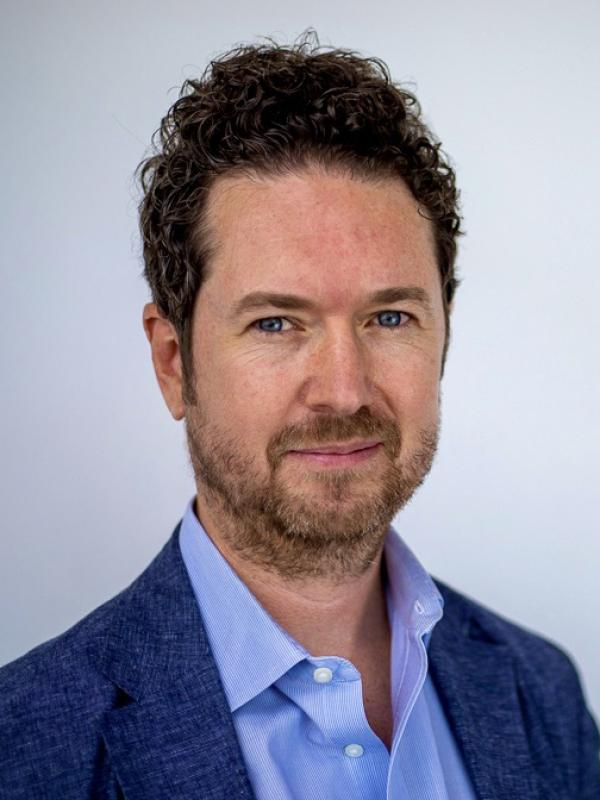
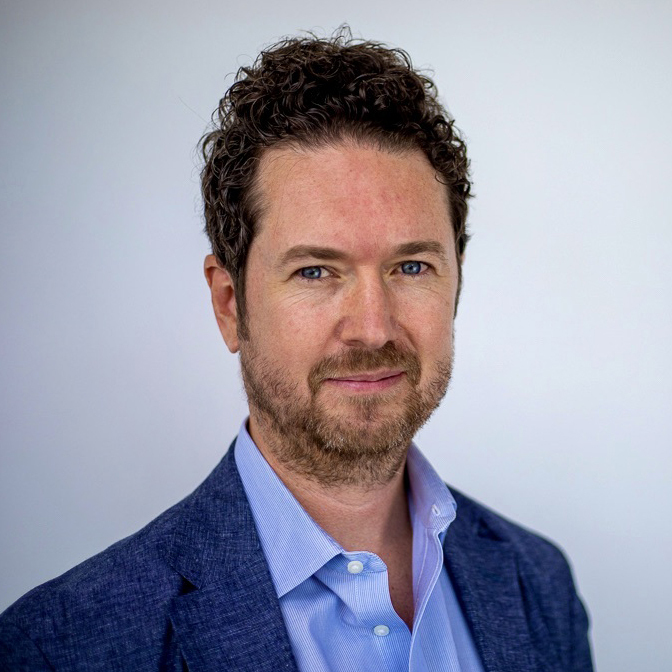
Add Dr. Sara Lazar (HMS / Mass General); refresh Michael Sheehy
- New speaker Dr. Sara Lazar, placed third (after Akhilesh Mishra and
  Sat Bir Khalsa): neuroscience-of-meditation pioneer, MGH / Harvard
  Medical School.
- Michael Sheehy: new profile photo, and links repointed to the
  Contemplative Sciences Center (csc.virginia.edu).

diff --git a/app/page.tsx b/app/page.tsx
@@ -220,6 +220,15 @@ const speakers = [
     bio: 'A leading researcher on the science of yoga and meditation for over four decades. He is Editor-in-Chief of the International Journal of Yoga Therapy, lead editor of The Principles and Practice of Yoga in Health Care, and Director of Research at the Kripalu Center and the Kundalini Research Institute, with clinical trials on yoga for anxiety, insomnia and occupational stress.',
   },
   {
+    name: 'Dr. Sara Lazar',
+    title: 'Associate Researcher, Psychiatry, Massachusetts General Hospital · Assistant Professor in Psychology, Department of Psychiatry',
+    affiliation: 'Harvard Medical School · Massachusetts General Hospital',
+    affiliationUrl: 'https://hms.harvard.edu',
+    profileUrl: 'https://researchers.mgh.harvard.edu/profile/186188/Sara-Lazar',
+    photo: '/speakers/sara-lazar.jpg',
+    bio: 'A pioneer of the neuroscience of meditation. Her MRI studies at Massachusetts General Hospital were among the first to show that mindfulness and yoga practice are associated with measurable changes in brain structure — cortical thickness, grey-matter density in the hippocampus, and amygdala volume — reshaping how the field understands neuroplasticity and contemplative training.',
+  },
+  {
     name: 'Prof. Christopher Key Chapple',
     title: 'Doshi Professor of Indic and Comparative Theology · Director, MA in Yoga Studies · Department of Theological Studies',
     affiliation: 'Loyola Marymount University',
@@ -232,8 +241,8 @@ const speakers = [
     name: 'Dr. Michael R. Sheehy',
     title: 'Research Associate Professor, Department of Religious Studies · Director of Research, Contemplative Sciences Center',
     affiliation: 'University of Virginia',
-    affiliationUrl: 'https://religiousstudies.as.virginia.edu',
-    profileUrl: 'https://religiousstudies.as.virginia.edu/michael-sheehy',
+    affiliationUrl: 'https://csc.virginia.edu/',
+    profileUrl: 'https://csc.virginia.edu/people/michael-sheehy',
     photo: '/speakers/michael-sheehy.jpg',
     bio: "Specialist in Tibetan Buddhism and the phenomenology of contemplative practice. As Director of Research at UVA's Contemplative Sciences Center he founded the CIRCL Contemplative Innovation + Research Co-Lab, a transdisciplinary lab studying contemplation through cultural, historical, phenomenological and neurophysiological lenses, and is Editor-in-Chief of the Journal of Contemplative Studies.",
   },
